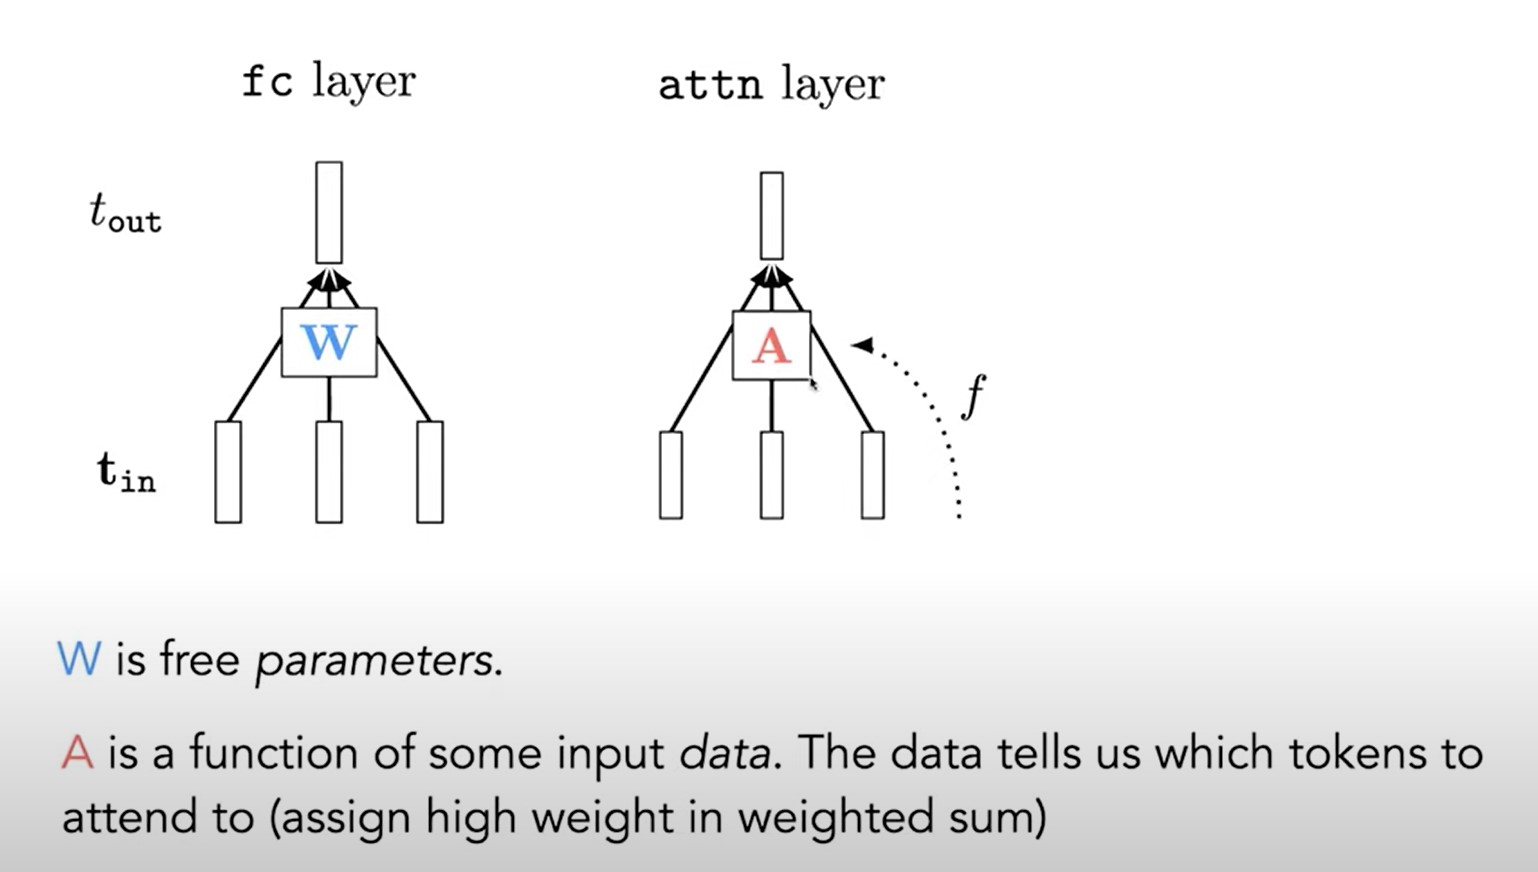
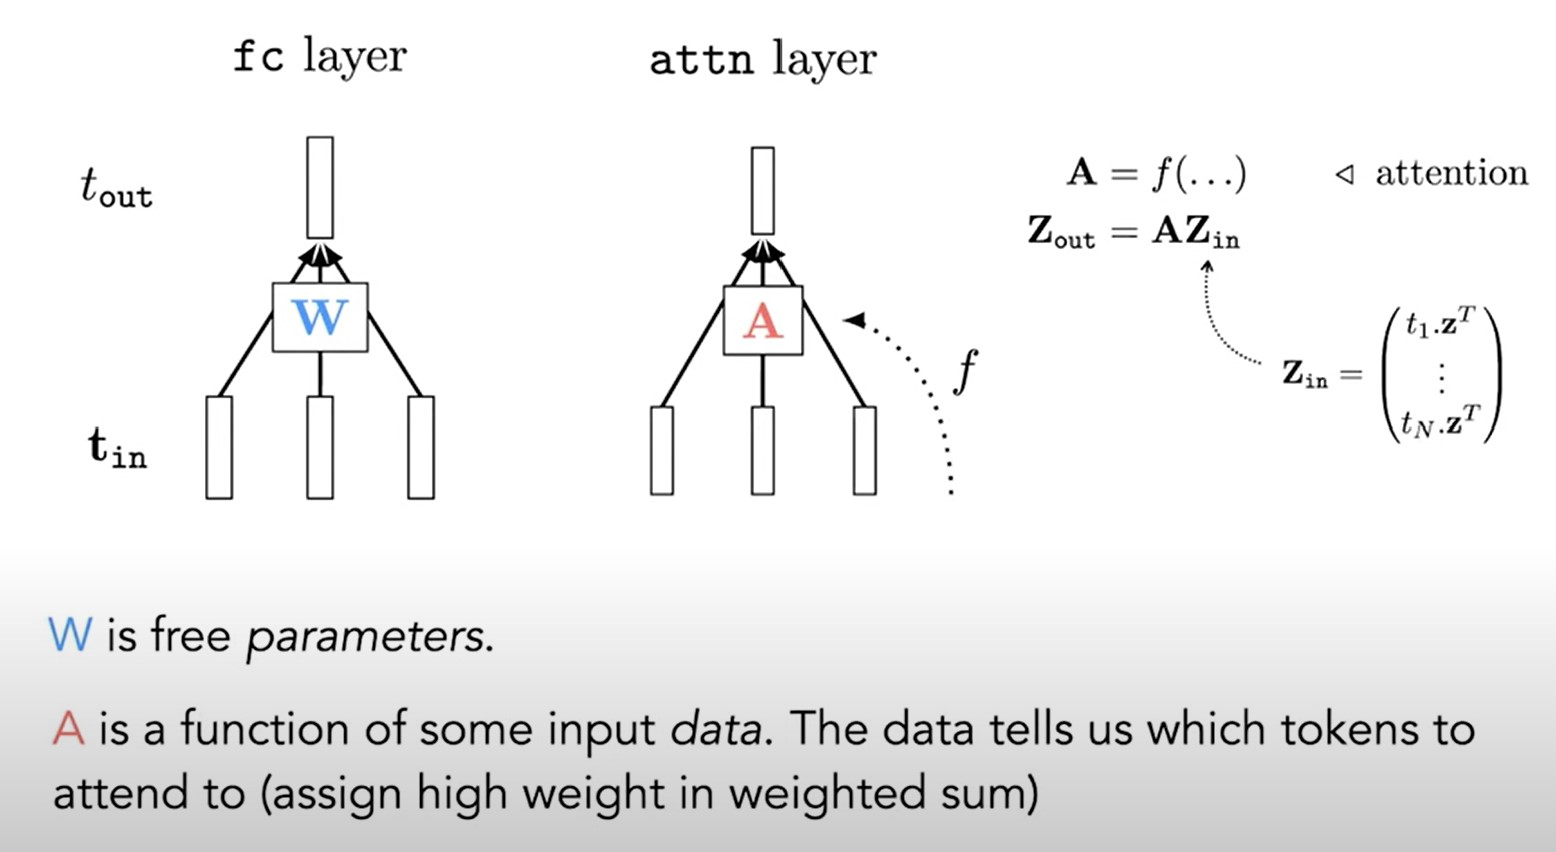
update

diff --git a/cs25/transformer.md b/cs25/transformer.md
@@ -94,6 +94,90 @@ Như vậy ý tưởng đầu tiên là build things out of token - vector-value
 
 ![](files/tfm-08.jpg)
 
+- trong linear bạn có một weighted combination với W là free parameters và có thể được cập nhật (trong quá trình huấn luyện)
+- trong Attn bạn cũng có một weighted combination của inputs để tạo ra output, nhưng các tham số - giá trị của ma trận A không học được (không được cập nhật), thay vào đó nó sẽ phụ thuộc vào dữ liệu (data-dependent), nó sẽ là một hàm của một loại dữ liệu khác.
+
+So when you have data-dependent linear combination where the weights are functions of some other data, then that's called attention. A is a weight matrix that's a function of something else, it tells you how much weight to apply to each token in the input sequence, you'll take a weighted sum, which is just matrix multiply A by the tokens. 
+
+
+## Intuition of attn https://youtu.be/Smav86u60FM?t=656
+
+![](files/tfm-09.jpg)
+
+Ta có thể có attn give me by some other branch of my NN. Nó có thể là một nhánh NN để phân tích câu hỏi. Và câu hỏi đó sẽ cho ta biết patches nào của ảnh đầu vào ta nên chú ý đến. Các patches đầu vào được biểu diễn bởi tokens. Và ta có thể nói đây là các patches tôi sẽ cho trọng số cao hơn, và sau đó tôi sẽ tính weight sum of the code vectors inside those patches to produce an output.
+
+Ta có thể đặt câu hỏi "màu sắc của đầu con chim trong hình là gì?", tức là ta sẽ chú ý tới đầu chim. Hoặc "màu sắc của cỏ là gì?" tức là ta sẽ chú ý tới nền cỏ. So it's just saying which tokens or patches there are going to be getting a lot of weight to make my decision. And then we'll report best green because the token code vectors will have represented some information like the color of the token.
+
+## Query-key-value attention https://youtu.be/Smav86u60FM?t=717
+
+![](files/tfm-10.jpg)
+
+Một attention điển hình sẽ như hình trên, nó cũng làm nổi rõ notation `token.z` để thể hiện vector live in side a token. Ý muốn nói là trong token chứa nhiều loại thông tin:
+- `token.z` là giá trị vector của nó
+- `token.query() = W_q token.z`
+- `token.key()   = W_k token.z`
+- `token.value() = W_v token.z`
+
+Ta có thể thấy .query(), .key(), .token() là 3 hàm f_q(t), f_k(t) và f_v(t). Và q, k, v là 3 giá trì đầu ra khi áp dụng 3 hàm đó vào 1 token t nhất định. Ở ví dụ trên W_q, W_k, W_v là 3 ma trận trọng số có thể học được - là triển khai cụ thể của cơ chế attn.
+
+Tổng quát hơn nữa ta thấy với transformers có thể quy mọi thứ về token. t_question cho câu hỏi, t_input cho dữ liệu cần tìm câu trả lời trên nó rồi t_out cho câu trả lời đầu ra (input là t_question và t_in, output là t_out).
+
+Diễn giải bằng lời: this is like attn from the question branch, but i could __just have the data choose what in its own__ token sequence to attent to. Each token chooses which other tokens to attent to, and that's called self-attention.
+
+![](files/tfm-11.jpg)
+This picture here where this patch sẽ quyết định, cái gì sẽ được chú ý đến để có được một biểu diễn tốt hơn của that patch, essentially.
+
+![](files/tfm-12.jpg)
+Hàm f ám chỉ sự phụ thuộc của weight vào data. Và vì f không đến từ bên ngoài nên cơ chế này được gọi là self-attention (no external source).
+
+## Demo https://youtu.be/Smav86u60FM?t=945
+(xem video để thấy chuyển động của mô hình)
+
+To connect it to one of the most common demonstrations of transformers is to do sequence modeling. Nhưng thực sự transformers are more about set to set operations. Bởi bạn có thể biểu diễn seuquence như là một tập hợp, so it's fine.
+
+![](files/tfm-13.jpg)
+Ở ví dụ trên, từ chuỗi đầu vào "colorless green ideas sleep", mô hình dự đoán token tiếp theo là "furiously", và token này lại nối tiếp với chuỗi đầu đang có trở thành chuỗi đầu vào tiếp theo "colorless green ideas sleep furiously" để tiếp tục dự đoán. Và thay vì dự đoán từ tiếp theo, ở các bài toán khác bạn có thể dự đoán protein tiếp theo, hay là sound wave tiếp theo ...
+
+```Q&A
+Q: lịch sử của term key, query, value là gì?
+A: tôi nghĩ nó đến từ data retriveval database. Bạn có database lưu trữ tri thức trong các cells. Và bạn có thể query database đó. Bạn nói tôi muốn tìm những thứ liên quan tới "drafts". Và mọi cell đều có nhãn gọi là key, ví dụ như đây là cell cho mammal, đây là cell cho giraffes, và đây là cell cho plants. Và bạn match query vào key. Và những thứ có trong cell mà bạn thu về được gọi là value.
+
+Q: giả sử câu hỏi là "đâu là màu sắc của đầu con gà tây", và vì một vài lý do nào đó, đầu gà tây là một đặc trưng đủ phức tạp mà nó không thể được biểu diễn tốt trong một token, điều đó có gây ra vấn đề gì cho việc attending to the right things, or weighting the right thing properly?
+A: Một trong những câu trả lời là chúng ta có multi-head attention, nơi mà bạn sẽ lấy sequence của mình hay your set of tokens và bạn sẽ có n query vectors khác nhau, n value vectors khác nhau, và n key vectors khác nhau và mỗi query có thể hỏi một kiểu khác nhau kiểu như: một query sẽ hỏi tôi muốn match the same color, query khác hỏi tôi muốn match the same geometry. Và khi bạn tối ưu các tham số của mạng, bằng một cách nào đó chúng sẽ tự tổ chức, well, if it's useful to factor things into geometry and color, thì sẽ có một attention head take cares about color, and one that cares about geometry.
+
+Q: Tôi có câu hỏi về phi tuyến tính trong transformer. Nếu tôi nhớ không nhầm thì bạn sẽ chuẩn hóa cho mỗi token, intution khi làm việc đó là gì? Tôi không thấy người ta làm việc đó nhiều trước khi transformer xuất hiện.
+A: Đó là một câu hỏi tuyệt vời. Thông thường bạn sẽ weighted sum to add up to one, so the weight should add up to one. Và chúng ta làm việc đó thông qua softmax over the weights.
+
+Q: Ồ, tôi muốn hỏi về residual connection cơ.
+A: À đó là layernorm. Theo hiểu biết của mình, tôi thấy laynorm, residual connection chỉ là mẹo để giúp network có thể train. It's good to normalize things.
+Brian Cheung: Transformers rất khó để train, đặc biệt là một vài tầng, như là tầng thứ 12 trở lên. Nếu bạn không có residual connections hay layernorms.
+
+Q: Làm thế nào để quyết định dùng patch nào? Ví dụ trong ảnh hoặc text you also had what seemed to be arbitrary segmentation of data.
+A: Đó là một câu hỏi tuyệt vời. Like how do you do the tokenization? Like how do you design that. I think it's super hacky right now. So that feel like somewhere that people could do a lot of work. One thing does seem to happen is that __the smaller you make your token, if you have token that are a single pixel, it's just better you get__. So maybe what happen is just stop having clever tokenization and just go down to whatever atomic units of the data are, like a single character, a single pixel, and that just makes the choice for us because you can't go below that, really. Vì thế tôi nghĩ (tokens) càng nhỏ hơn trong ViT, thing i've seen is that smaller the tokens are, the better they tend to perform. Bởi vì do cơ chế attn là every tokens attends to every token, nó là n^2, nên nếu bạn chọn tokens quá nhỏ, có quá nhiều tokens bạn sẽ bị run out of memory. Vì thế có những cách tknz thông minh như superpixels, hay segmentation. Hay như trong NLP, có rất nhiều cách tknz như bype-pair-encoding, bạn có thể dùng chúng như là tầng tknz đầu tiên. But yeah, that feels like a hackey area right now to me.
+
+Q: Can you try to usually leverage at least some degree of topology by tokenizing it, that respects spatial coordinates for images, or language order for words. Because there's also smt called position encoding, which give you knowledge about the topology of why this element is in this position, versus this other position, and that tell you a lot about the structure of the image, or at least where this oken is with respect to the overall structure of the image.
+A: Yeah, và một thứ nữa có vẻ missing right now is people usually envision transformers which i'm most familiar with, that usually break into non-overlapping tokens. But we know from ConvNets and signal processing that you'll get a ton of aliasing in the filtering operations if you have these huge strides, you're bringing in non-overlaping patches, you really want to have overlapping patches, or blur the signal. So all that signal processing stuff I think has been thrown away, and probably it's a good idea to put it back in there.
+
+someone has tried overlapping patches, and it does help. Everythin i say, as you probably know, there's 10k transformer papers now. So i'm sure everthing that you could imagine has been tried.  
+```
+
+## Positional encoding
+
+![](files/tfm-14.jpg)
+
+Nếu bạn không muốn bị shift invariant. Một là bạn dùng một kiến trúc không bị shift invariant như MLP. Hai là bạn cho thêm thông tin về vị trí vào input của convolution filters, cách này gọi là positional encoding. Ý tưởng này đã có từ trước.
+
+![](files/tfm-15.jpg)
+
+Nếu bạn không muốn to be permutation invariant. Một là bạn sử dụng kiến trúc không bị permutation invariant như MLP. Hai là bạn cho thêm thông tin vị trí vào token code vectors, đó gọi là positional encoding. Và khi làm điều đó bạn được một sequence model. Nếu không làm thế bạn sẽ có property of permuatition equivariance (tương đương hoán vị). This is why I said it's really a set-to-set operation. Vì thế nếu bạn không cho token thông tin nó đến từ đâu, bạn không cho nó positional codes, và khi ta lấy tokens từ input layer, và ta giao hoán chúng theo bất cứ thứ tự nào bạn chỉ đơn giản đang hoán đổi tokens của layer đầu ra. The mapping will be the same up to permutation. Sẽ cần suy nghĩ một chút để thấy điều này là đúng, nhưng lý do cốt lõi là bởi vì attention layer is permutation invariant bởi vì cái cách mà attn hoạt động. Và token-wise (tương đương point-wise) layer is permutation invariant too, so transformer is a permutation invariant function (hàm bất biến hoán vị).
+
+![](files/tfm-16.jpg)
+
+Như vậy nếu có positional encoding, thì nó sẽ là sequence. Còn không transformers sẽ là set to set mapping.
+
+Q: Bạn bắt đầu với ý tưởng về token như một loại cấu trúc dữ liệu mới, but just a few sencences before, you said smt that may sounds like the idea of tokens is rather weakened that the transformers work better when you have individual bits of data, like pixels. Vì thế tôi càm thấy ý tưởng về token không phải là cốt lõi của toàn bộ ý tưởng này, mà attn mới là phần quan trọng nhất. Và ý tưởng có thể attend dynamically anywhere in the picture là ý tưởng gives power in these algorithms, chứ không phải là tokens?
+A: Tôi không biết. Và tôi nghĩ rằng that's kind of the open debate. It's fun to keep discussing it. So I think the field is kind of split right now between people thinking that it's the tokens and the vector, encapsulated vectors that are important to this versus the attention, and really if you just have intentional mechanism, you can still be operating over neurons. It doesn't have to be about tokens. Tôi nghĩ rằng cả 2 đều quan trọng để thành công. Một ví dụ phản công là nếu attention matter is there are these other architectures now, sometimes called MLP-mixer, nó sử dụng token chứ không phải attention. Cơ bản MLP-Mixer là ConvNet over tokens, one-by-one conv over tokens, họ gọi nó là MLP-mixer khiến nó trở nên khó hiểu, but anyway MLP-Mixer không có attn. But it's still, in my view, it's a token net, and that seems competitive on some tasks with attention networks. So maybe attention is, maybe it's not.
+
 - - -
 
 # Attention and Transformer
